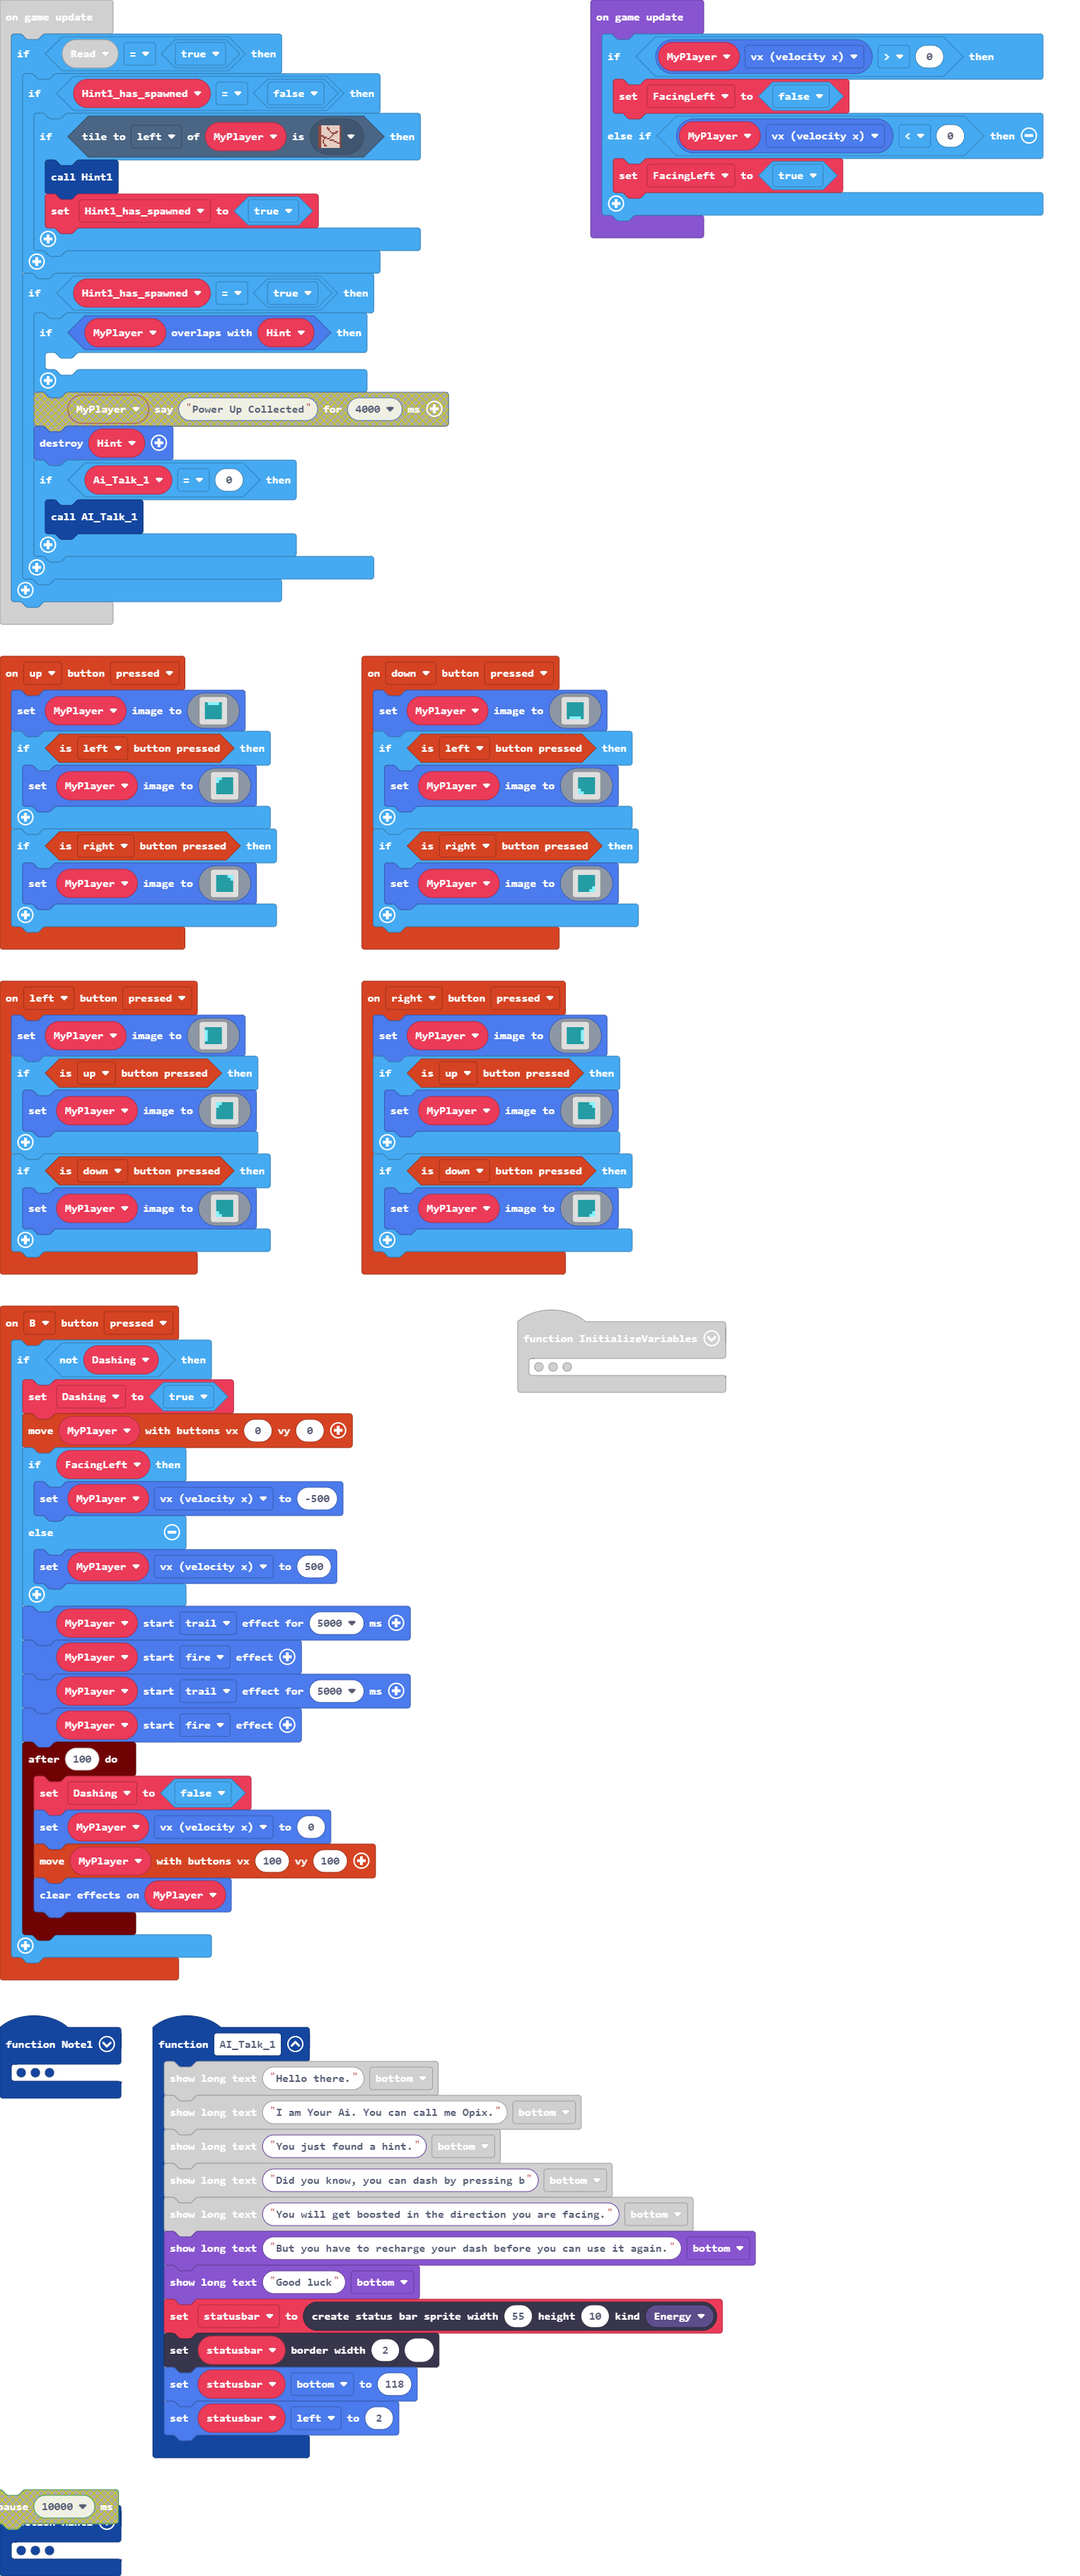
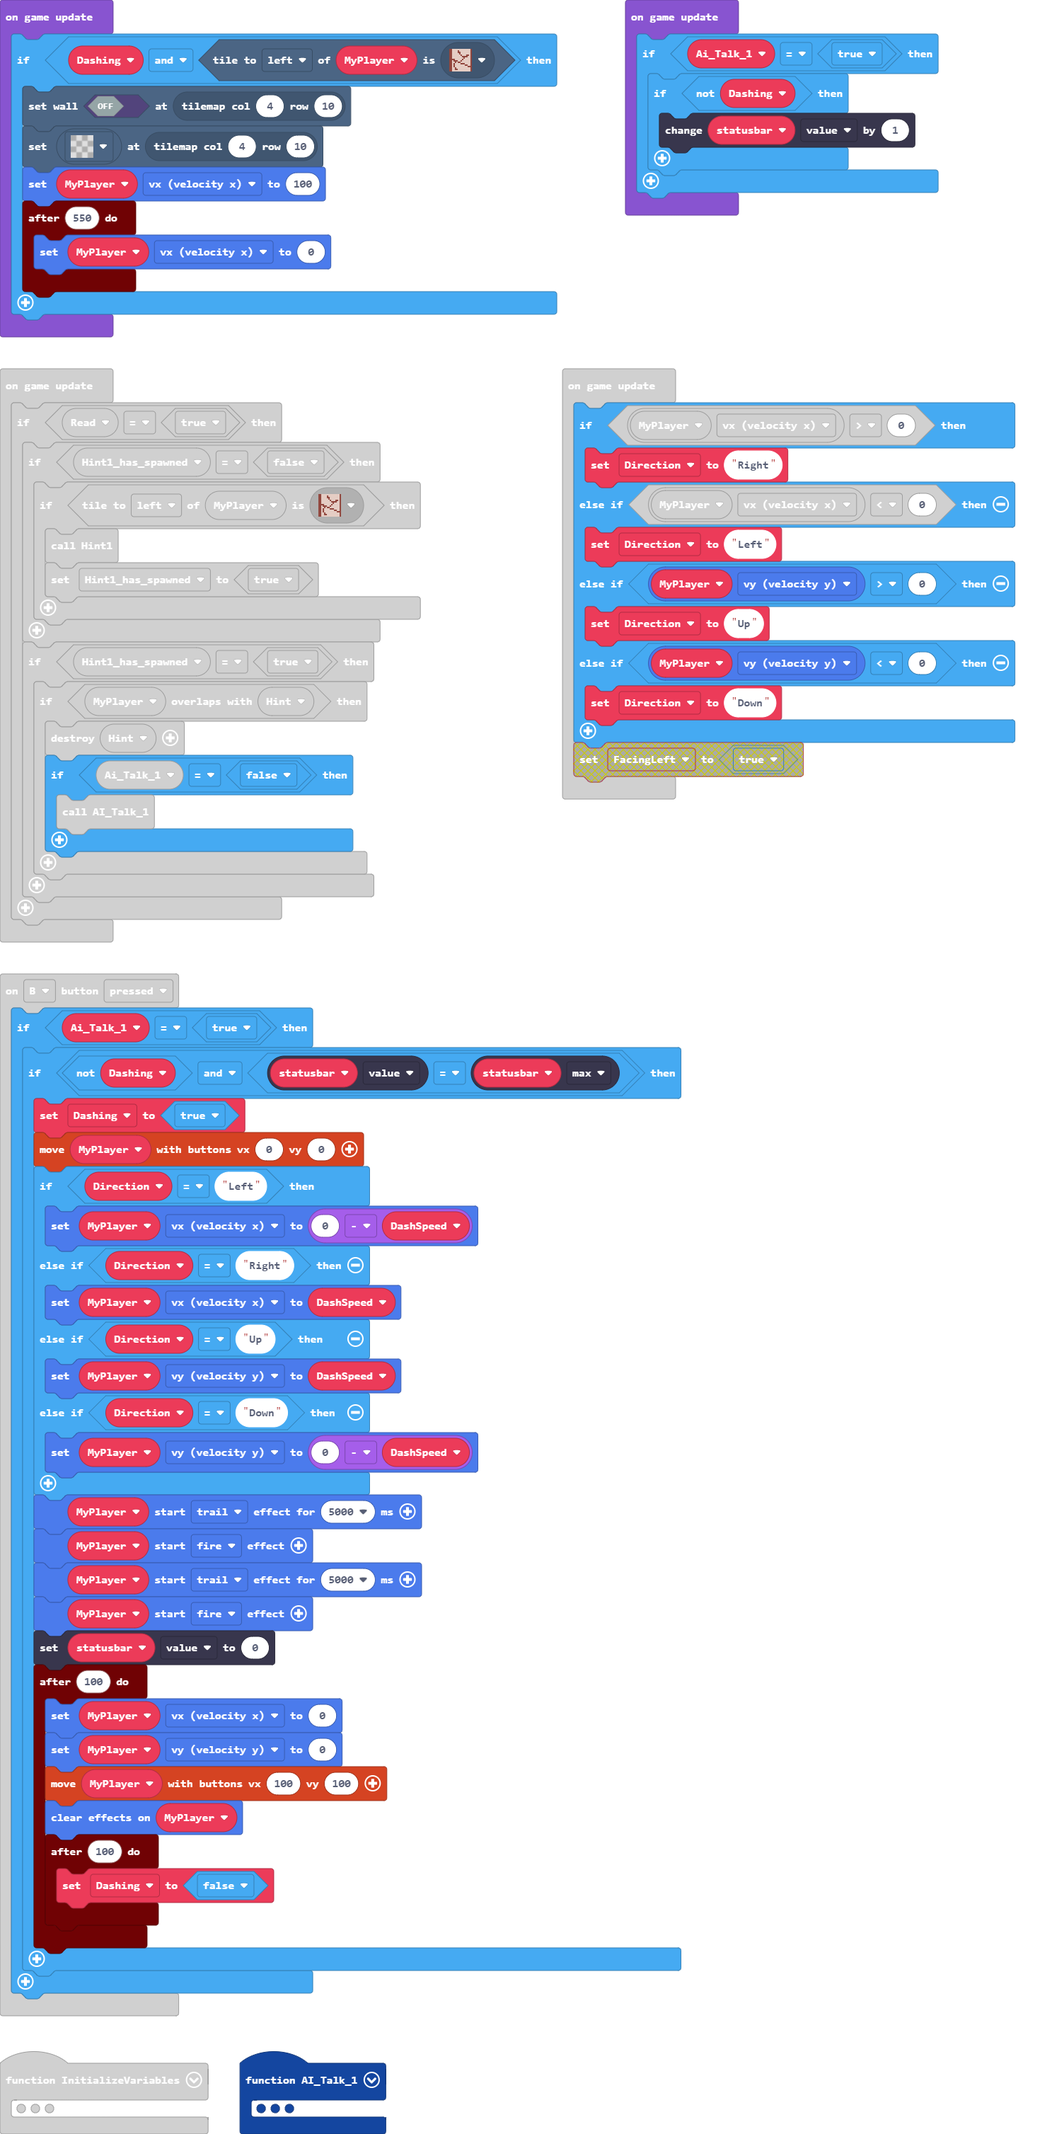
Update images.g.jres, images.g.ts, main.blocks, main.ts, tilemap.g.jres, tilemap.g.ts

diff --git a/main.ts b/main.ts
@@ -12,24 +12,34 @@ controller.up.onEvent(ControllerButtonEvent.Pressed, function () {
     }
 })
 controller.B.onEvent(ControllerButtonEvent.Pressed, function () {
-    if (!(Dashing)) {
-        Dashing = true
-        controller.moveSprite(MyPlayer, 0, 0)
-        if (FacingLeft) {
-            MyPlayer.vx = -500
-        } else {
-            MyPlayer.vx = 500
+    if (Ai_Talk_1 == true) {
+        if (!(Dashing) && statusbar.value == statusbar.max) {
+            Dashing = true
+            controller.moveSprite(MyPlayer, 0, 0)
+            if (Direction == "Left") {
+                MyPlayer.vx = 0 - DashSpeed
+            } else if (Direction == "Right") {
+                MyPlayer.vx = DashSpeed
+            } else if (Direction == "Up") {
+                MyPlayer.vy = DashSpeed
+            } else if (Direction == "Down") {
+                MyPlayer.vy = 0 - DashSpeed
+            }
+            MyPlayer.startEffect(effects.trail)
+            MyPlayer.startEffect(effects.fire)
+            MyPlayer.startEffect(effects.trail)
+            MyPlayer.startEffect(effects.fire)
+            statusbar.value = 0
+            timer.after(100, function () {
+                MyPlayer.vx = 0
+                MyPlayer.vy = 0
+                controller.moveSprite(MyPlayer, 100, 100)
+                effects.clearParticles(MyPlayer)
+                timer.after(100, function () {
+                    Dashing = false
+                })
+            })
         }
-        MyPlayer.startEffect(effects.trail)
-        MyPlayer.startEffect(effects.fire)
-        MyPlayer.startEffect(effects.trail)
-        MyPlayer.startEffect(effects.fire)
-        timer.after(100, function () {
-            Dashing = false
-            MyPlayer.vx = 0
-            controller.moveSprite(MyPlayer, 100, 100)
-            effects.clearParticles(MyPlayer)
-        })
     }
 })
 function Hint1 () {
@@ -58,17 +68,22 @@ controller.left.onEvent(ControllerButtonEvent.Pressed, function () {
     }
 })
 function AI_Talk_1 () {
+    game.setDialogFrame(assets.image`AI_Frame`)
     game.showLongText("Hello there.", DialogLayout.Bottom)
     game.showLongText("I am Your Ai. You can call me Opix.", DialogLayout.Bottom)
     game.showLongText("You just found a hint.", DialogLayout.Bottom)
-    game.showLongText("Did you know, you can dash by pressing b", DialogLayout.Bottom)
+    game.showLongText("Did you know, you can dash by pressing b.", DialogLayout.Bottom)
     game.showLongText("You will get boosted in the direction you are facing.", DialogLayout.Bottom)
     game.showLongText("But you have to recharge your dash before you can use it again.", DialogLayout.Bottom)
-    game.showLongText("Good luck", DialogLayout.Bottom)
+    game.showLongText("Good luck!!!", DialogLayout.Bottom)
     statusbar = statusbars.create(55, 10, StatusBarKind.Energy)
     statusbar.setBarBorder(2, 1)
+    statusbar.value = 0
+    statusbar.max = 50
+    statusbar.setStatusBarFlag(StatusBarFlag.SmoothTransition, true)
     statusbar.bottom = 118
     statusbar.left = 2
+    Ai_Talk_1 = true
 }
 function SetPositions () {
     tiles.placeOnTile(MyPlayer, tiles.getTileLocation(7, 8))
@@ -93,9 +108,11 @@ controller.down.onEvent(ControllerButtonEvent.Pressed, function () {
     }
 })
 function InitializeVariables () {
+    DashSpeed = 500
     Read = false
     Hint1_has_spawned = false
-    Ai_Talk_1 = 0
+    Ai_Talk_1 = false
+    Ai_Talk_1 = false
     Note_1 = sprites.create(assets.image`Note`, SpriteKind.Note)
     MyPlayer = sprites.create(assets.image`Player`, SpriteKind.Player)
 }
@@ -118,13 +135,14 @@ function Note1 () {
         game.showLongText("Mission: Break out of this room", DialogLayout.Top)
     }
 }
-let Ai_Talk_1 = 0
 let Hint1_has_spawned = false
 let Read = false
-let statusbar: StatusBarSprite = null
 let Hint: Sprite = null
-let FacingLeft = false
+let DashSpeed = 0
+let Direction = ""
+let statusbar: StatusBarSprite = null
 let Dashing = false
+let Ai_Talk_1 = false
 let Note_1: Sprite = null
 let MyPlayer: Sprite = null
 tiles.setTilemap(tilemap`level1`)
@@ -133,6 +151,23 @@ SetPositions()
 controller.moveSprite(MyPlayer)
 scene.cameraFollowSprite(MyPlayer)
 Note_1.say("A")
+game.onUpdate(function () {
+    if (Dashing && MyPlayer.tileKindAt(TileDirection.Left, assets.tile`myTile`)) {
+        tiles.setWallAt(tiles.getTileLocation(4, 10), false)
+        tiles.setTileAt(tiles.getTileLocation(4, 10), assets.tile`transparency16`)
+        MyPlayer.vx = 100
+        timer.after(550, function () {
+            MyPlayer.vx = 0
+        })
+    }
+})
+game.onUpdate(function () {
+    if (Ai_Talk_1 == true) {
+        if (!(Dashing)) {
+            statusbar.value += 1
+        }
+    }
+})
 game.onUpdate(function () {
     if (Read == true) {
         if (Hint1_has_spawned == false) {
@@ -144,7 +179,7 @@ game.onUpdate(function () {
         if (Hint1_has_spawned == true) {
             if (MyPlayer.overlapsWith(Hint)) {
                 Hint.destroy()
-                if (Ai_Talk_1 == 0) {
+                if (Ai_Talk_1 == false) {
                     AI_Talk_1()
                 }
             }
@@ -153,8 +188,12 @@ game.onUpdate(function () {
 })
 game.onUpdate(function () {
     if (MyPlayer.vx > 0) {
-        FacingLeft = false
+        Direction = "Right"
     } else if (MyPlayer.vx < 0) {
-        FacingLeft = true
+        Direction = "Left"
+    } else if (MyPlayer.vy > 0) {
+        Direction = "Up"
+    } else if (MyPlayer.vy < 0) {
+        Direction = "Down"
     }
 })

diff --git a/tilemap.g.ts b/tilemap.g.ts
@@ -44,6 +44,25 @@ namespace myTiles {
 . . . . . . . . . . . . . . . . 
 . . . . . . . . . . . . . . . . 
 `, [myTiles.transparency16,myTiles.tile1,myTiles.tile2,myTiles.tile3,myTiles.tile4,myTiles.tile5,myTiles.tile6,myTiles.tile7,myTiles.tile8,myTiles.tile9,myTiles.tile10], TileScale.Sixteen);
+            case "level1_p2":
+            case "level2":return tiles.createTilemap(hex`1000100000000000000000000000000000000000000000000000000000000000000000000000000000000000000000000000000000000000000000000000000000000000000000000104040404040407000000000000000002090909090909030000000000000000020909090909090300000000000000000209090909090903000000000000000002090909090909030000000000000000020909090909090300000000000000000009090909090903000000000000000006050505050505080000000000000000000000000000000000000000000000000000000000000000000000000000000000000000000000000000000000000000000000000000000000000000`, img`
+. . . . . . . . . . . . . . . . 
+. . . . . . . . . . . . . . . . 
+. . . . . . . . . . . . . . . . 
+. . . . . . . . . . . . . . . . 
+. . . . 2 2 2 2 2 2 2 2 . . . . 
+. . . . 2 . . . . . . 2 . . . . 
+. . . . 2 . . . . . . 2 . . . . 
+. . . . 2 . . . . . . 2 . . . . 
+. . . . 2 . . . . . . 2 . . . . 
+. . . . 2 . . . . . . 2 . . . . 
+. . . . . . . . . . . 2 . . . . 
+. . . . 2 2 2 2 2 2 2 2 . . . . 
+. . . . . . . . . . . . . . . . 
+. . . . . . . . . . . . . . . . 
+. . . . . . . . . . . . . . . . 
+. . . . . . . . . . . . . . . . 
+`, [myTiles.transparency16,myTiles.tile5,myTiles.tile1,myTiles.tile2,myTiles.tile3,myTiles.tile4,myTiles.tile6,myTiles.tile7,myTiles.tile8,myTiles.tile9], TileScale.Sixteen);
         }
         return null;
     })

diff --git a/images.g.ts b/images.g.ts
@@ -267,6 +267,33 @@ f f f f f f f f f f f f f f f
 . . . . . . . . . . . . . . . . 
 . . . . . . . . . . . . . . . . 
 `;
+            case "RvdPXUl!J=I^T]81b,_{":
+            case "AI_Frame":return img`
+..66666666666666666666..
+.6699999999999999999966.
+669991111111111111199966
+699911111111111111119996
+699911111111111111119996
+699911111111111111119996
+699911111111111111119996
+699911111111111111119996
+699911111111111111119996
+699911111111111111119996
+699911111111111111119996
+699911111111111111119996
+699911111111111111119996
+699911111111111111119996
+699911111111111111119996
+699911111111111111119996
+699911111111111111119996
+699911111111111111119996
+699911111111111111119996
+699911111111111111119996
+699911111111111111119996
+669991111111111111199966
+.6699999999999999999966.
+..66666666666666666666..
+`;
         }
         return null;
     })
